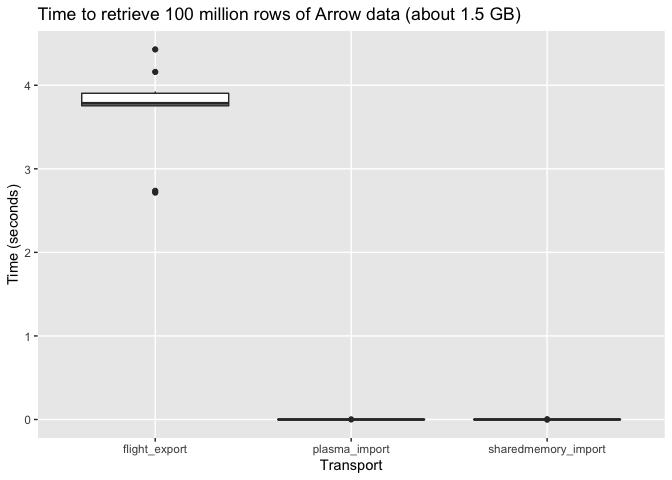
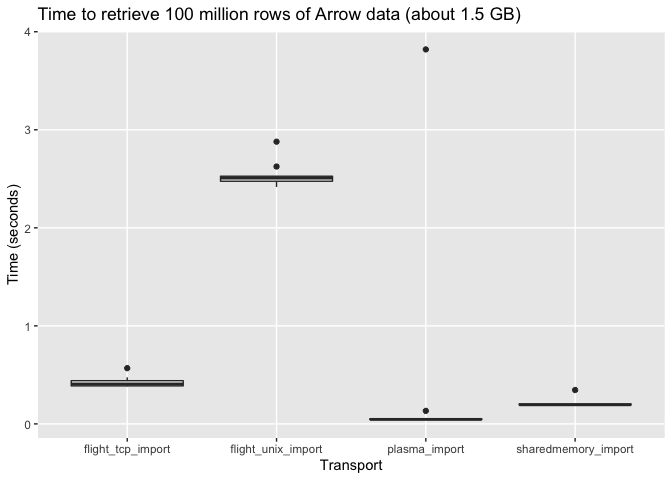
check tcp and use smaller batch size

diff --git a/flight_server.py b/flight_server.py
@@ -3,6 +3,7 @@
 
 """An example Flight Python server."""
 
+import argparse
 import ast
 import threading
 import time
@@ -63,16 +64,18 @@ class FlightServer(pyarrow.flight.FlightServerBase):
     def do_put(self, context, descriptor, reader, writer):
         key = FlightServer.descriptor_to_key(descriptor)
         print(key)
-        table = reader.read_all()
-        chunk_size = 2**16
-        self.flights[key] = pyarrow.Table.from_batches(table.to_batches(max_chunksize=chunk_size))
-        print(self.flights[key])
+        self.flights[key] = reader.read_all()
+        
+        # table = reader.read_all()
+        # chunk_size = 2**16
+        # self.flights[key] = pyarrow.Table.from_batches(table.to_batches(max_chunksize=chunk_size))
+        # print(self.flights[key])
 
     def do_get(self, context, ticket):
         key = ast.literal_eval(ticket.ticket.decode())
         if key not in self.flights:
             return None
-        return pyarrow.flight.RecordBatchStream(self.flights[key])
+        return pyarrow.flight.RecordBatchStream(self.flights[key].to_reader(64_000))
 
     def list_actions(self, context):
         return [
@@ -101,7 +104,14 @@ class FlightServer(pyarrow.flight.FlightServerBase):
 
 
 def main():
-    location = "grpc+unix:///tmp/test.sock"
+    parser = argparse.ArgumentParser()
+    parser.add_argument("--use-tcp", type=bool, default=False)
+    args = parser.parse_args()
+
+    if args.use_tcp:
+        location = "grpc+tcp://localhost:3000"
+    else:
+        location = "grpc+unix:///tmp/test.sock"
 
     server = FlightServer("localhost", location)
     print("Serving on", location)

diff --git a/retrieve_arrow.py b/retrieve_arrow.py
@@ -10,8 +10,11 @@ import time
 
 def retrieve_sharedmemory(name: str) -> pa.Table:
     table_shm = shared_memory.SharedMemory(name=name)
-    pa.ipc.open_stream(table_shm.buf).read_all()
-    table_shm.close()
+    table = pa.ipc.open_stream(table_shm.buf).read_all()
+    for column in table:
+        pc.sum(column)
+    # del table
+    # table_shm.close()
 
 def retrieve_plasma(client, object_id: bytes) -> pa.Table:
     [buffer] = client.get_buffers([object_id])
@@ -46,13 +49,19 @@ if __name__ == "__main__":
         with timer(f, "plasma_import"):
             retrieve_plasma(plasma_client, object_id)
     
-    # shared_memory_name = "table"
-    # for i in range(n_iters):
-    #     with timer(f, "sharedmemory_import"):
-    #         retrieve_sharedmemory(shared_memory_name)
+    shared_memory_name = "table"
+    for i in range(n_iters):
+        with timer(f, "sharedmemory_import"):
+            retrieve_sharedmemory(shared_memory_name)
     
     location = "grpc+unix:///tmp/test.sock"
     flight_client = pa.flight.connect(location)
     for i in range(n_iters):
-        with timer(f, "flight_export"):
+        with timer(f, "flight_unix_import"):
+            retrieve_flight(flight_client)
+    
+    location = "grpc+tcp://localhost:3000"
+    flight_client = pa.flight.connect(location)
+    for i in range(n_iters):
+        with timer(f, "flight_tcp_import"):
             retrieve_flight(flight_client)

diff --git a/share_arrow.py b/share_arrow.py
@@ -62,7 +62,7 @@ def clear_plasma(client, object_id: bytes):
 def export_to_flight(client, table: pa.Table):
     descriptor = pa.flight.FlightDescriptor.for_path("table")
     writer, _ = client.do_put(descriptor, table.schema)
-    writer.write_table(table)
+    writer.write_table(table, max_chunksize=64_000)
     writer.close()
     
 
@@ -102,13 +102,22 @@ if __name__ == "__main__":
         with timer(f, "sharedmemory_export", buffer_size):
             export_to_shared_memory(shared_memory_name, table)
 
-    # Finally, flight
+    # Flight over unix domain socket
     location = "grpc+unix:///tmp/test.sock"
     flight_client = pa.flight.connect(location)
     for i in range(n_iters):
         # More graceful way to collect all the results?
         list(flight_client.do_action("clear"))
-        with timer(f, "flight_export", buffer_size):
+        with timer(f, "flight_unix_export", buffer_size):
+            export_to_flight(flight_client, table)
+
+    # Flight over TCP
+    location = "grpc+tcp://localhost:3000"
+    flight_client = pa.flight.connect(location)
+    for i in range(n_iters):
+        # More graceful way to collect all the results?
+        list(flight_client.do_action("clear"))
+        with timer(f, "flight_tcp_export", buffer_size):
             export_to_flight(flight_client, table)
 
     # We need to disconnect, since only one client can connection to a Flight

diff --git a/readme.md b/readme.md
@@ -8,21 +8,23 @@ table between different processes.
 
 ![](readme_files/figure-gfm/share-throughput-1.png)
 
-    # A tibble: 3 × 5
+    # A tibble: 4 × 5
       name                avg_time_sec min_time_sec avg_gbps max_gbps
       <chr>                      <dbl>        <dbl>    <dbl>    <dbl>
-    1 flight_export              3.28        2.80      0.468    0.531
-    2 plasma_export              0.118       0.0851   15.5     17.5  
-    3 sharedmemory_export        0.187       0.130     9.57    11.4  
+    1 flight_tcp_export          0.394       0.300     4.31     4.97 
+    2 flight_unix_export         2.69        2.56      0.556    0.582
+    3 plasma_export              0.120       0.0827   14.5     18.0  
+    4 sharedmemory_export        0.254       0.127     8.74    11.7  
 
 ![](readme_files/figure-gfm/retrieve-time-1.png)
 
-    # A tibble: 3 × 3
+    # A tibble: 4 × 3
       name                avg_time_sec min_time_sec
       <chr>                      <dbl>        <dbl>
-    1 flight_export           3.69        2.72     
-    2 plasma_import           0.000131    0.0000250
-    3 sharedmemory_import     0.000166    0.0000432
+    1 flight_tcp_import          0.427       0.383 
+    2 flight_unix_import         2.54        2.42  
+    3 plasma_import              0.432       0.0447
+    4 sharedmemory_import        0.212       0.193 
 
 ## How to run
 
@@ -32,12 +34,20 @@ First start the plasma server
 plasma_store -m 1000000000 -s /tmp/plasma
 ```
 
-Then, start the flight server
+Then, start the flight servers
 
 ``` shell
 python flight_server.py
 ```
 
-Then run the share benchmarks
+``` shell
+python flight_server.py --use-tcp
+```
+
+Then run the share benchmarks:
+
+``` shell
+python share_arrow.py
+```
 
 Finally, run the retrieve benchmarks:
